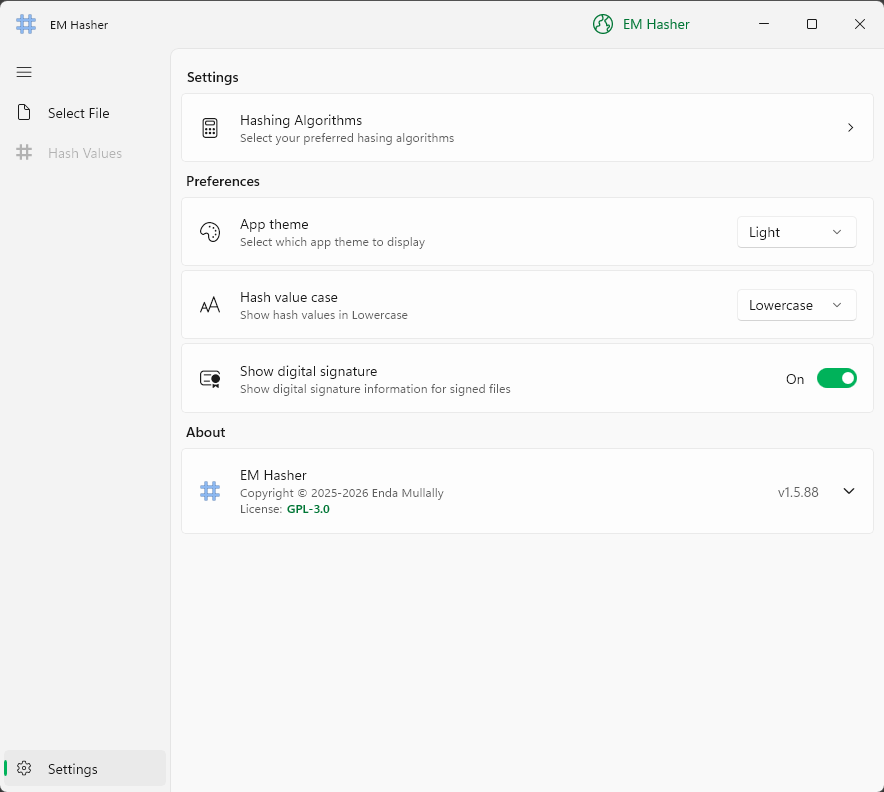
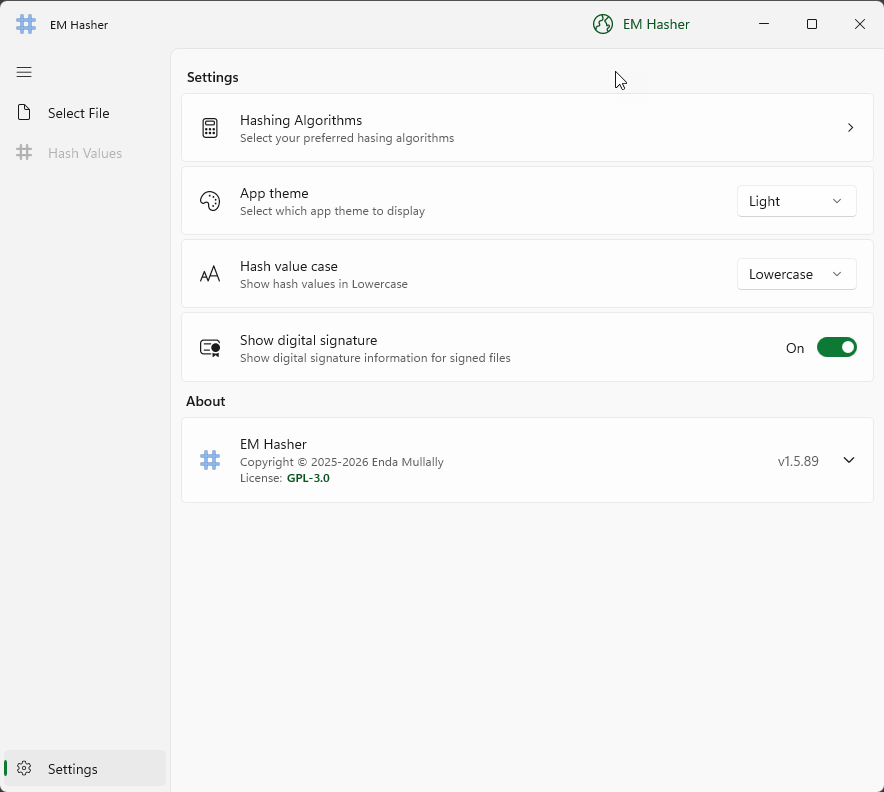
Mini release - build 89  (#120)
* Package updates (#115)

* Minor UI updates (#117)

* Drag drop (#118)

* Remove #debug conditions

* Improved drag and drop. Detect drop when not on Home page

* Mini release build 89 (#119)

* +Inc build

* *Store image updates

diff --git a/src/EM.Hasher/Views/Shell.xaml b/src/EM.Hasher/Views/Shell.xaml
@@ -132,7 +132,10 @@
                     x:Name="contentFrame"
                     Margin="0,0,0,0"
                     Padding="10"
+                    AllowDrop="True"
                     Background="Transparent"
+                    DragEnter="ContentFrame_DragOver"
+                    DragOver="ContentFrame_DragOver"
                     Navigated="ContentFrame_Navigated" />
             </NavigationView>
         </Grid>

diff --git a/src/EM.Hasher/Views/Settings.xaml b/src/EM.Hasher/Views/Settings.xaml
@@ -53,8 +53,6 @@
                 IsClickEnabled="True"
                 Tapped="OnHashingAlgorithmsCardTapped" />
 
-            <TextBlock Style="{StaticResource SettingsSectionHeaderTextBlockStyle}" Text="Preferences" />
-
             <controls:SettingsCard
                 Description="Select which app theme to display"
                 Header="App theme"

diff --git a/src/EM.Hasher/Controls/DropFileControl.xaml b/src/EM.Hasher/Controls/DropFileControl.xaml
@@ -32,7 +32,7 @@
             <TextBlock
                 FontSize="16"
                 Foreground="{ThemeResource TextFillColorPrimary}"
-                Text="Drop file here" />
+                Text="or drop a file here" />
         </StackPanel>
     </Grid>
 </UserControl>

diff --git a/src/EM.Hasher/Views/Shell.xaml.cs b/src/EM.Hasher/Views/Shell.xaml.cs
@@ -27,6 +27,7 @@ using EM.Hasher.ViewModels.UI;
 using Microsoft.UI.Xaml;
 using Microsoft.UI.Xaml.Controls;
 using Microsoft.UI.Xaml.Data;
+using Windows.ApplicationModel.DataTransfer;
 
 namespace EM.Hasher.Views;
 
@@ -157,6 +158,27 @@ public sealed partial class Shell : Page
             App.PendingActivationFilePath = null;
             _ = App.GetService<HomeViewModel>().SelectFileAsync(pendingFile!);
         }
+    }
+
+    private void ContentFrame_DragOver(object sender, DragEventArgs e)
+    {
+        if (contentFrame.SourcePageType == typeof(Home) ||
+            !UiStateViewModel.IsHomeTabEnabled ||
+            !e.DataView.Contains(StandardDataFormats.StorageItems))
+        {
+            return;
+        }
+
+        // Keep the drag operation alive while we switch to the Home page,
+        // the Home page drop control will take over once it is loaded.
+        e.AcceptedOperation = DataPackageOperation.Copy;
+        e.DragUIOverride.IsCaptionVisible = false;
+        e.DragUIOverride.IsGlyphVisible = false;
+
+        WeakReferenceMessenger.Default.Send(
+            new DropFileErrorMessage(false, string.Empty));
+
+        contentFrame.Navigate(typeof(Home));
     }
 
     private void NavigationView_BackRequested(NavigationView sender, NavigationViewBackRequestedEventArgs args)

diff --git a/src/EM.Hasher/Services/Hashes/Sha3_256HashCalculator.cs b/src/EM.Hasher/Services/Hashes/Sha3_256HashCalculator.cs
@@ -30,11 +30,7 @@ public class Sha3_256HashCalculator(IHashProgressCalculator progressCalculator) 
     {
         get
         {
-#if DEBUG
-            return false;
-#else
             return SHA3_256.IsSupported;
-#endif
         }
     }
 

diff --git a/src/EM.Hasher/Services/Hashes/Sha3_512HashCalculator.cs b/src/EM.Hasher/Services/Hashes/Sha3_512HashCalculator.cs
@@ -30,11 +30,7 @@ public class Sha3_512HashCalculator(IHashProgressCalculator progressCalculator) 
     {
         get
         {
-#if DEBUG
-            return false;
-#else
             return SHA3_512.IsSupported;
-#endif
         }
     }
 
